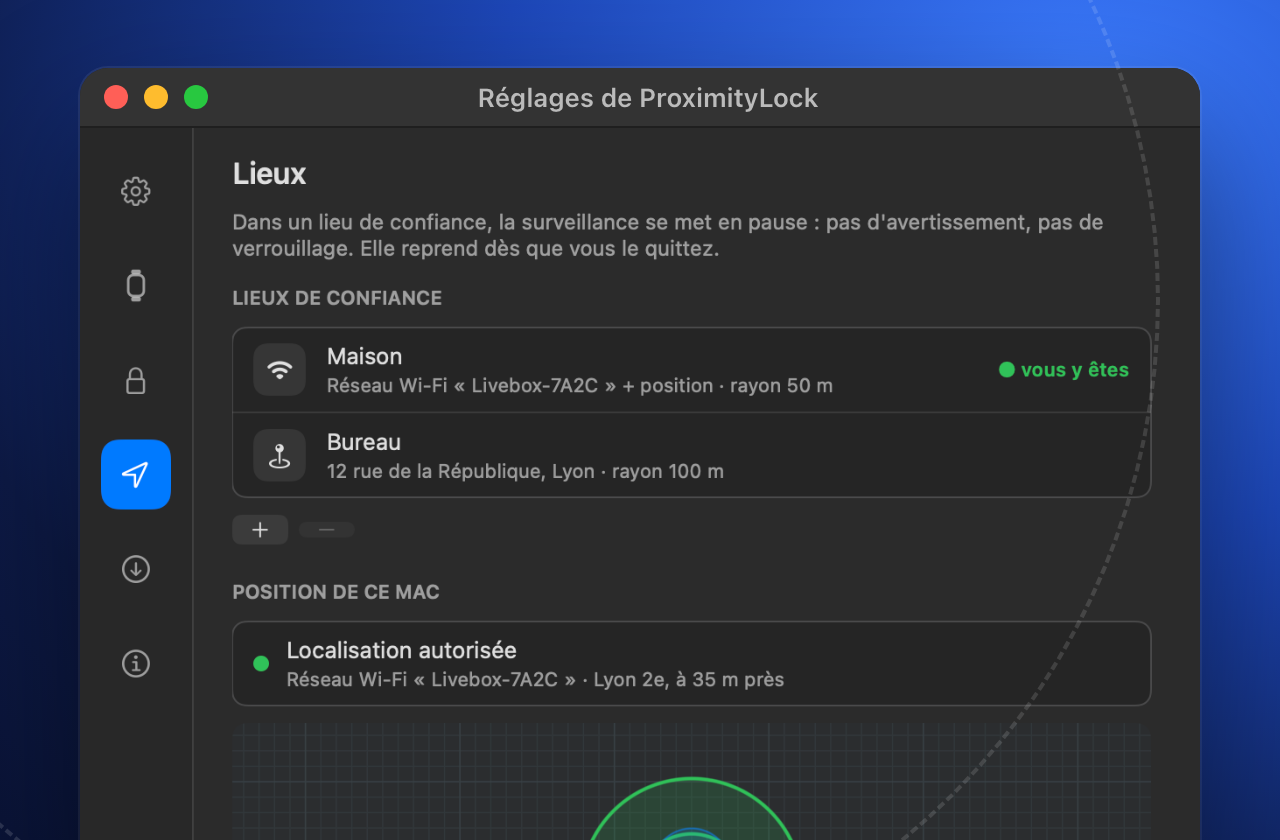
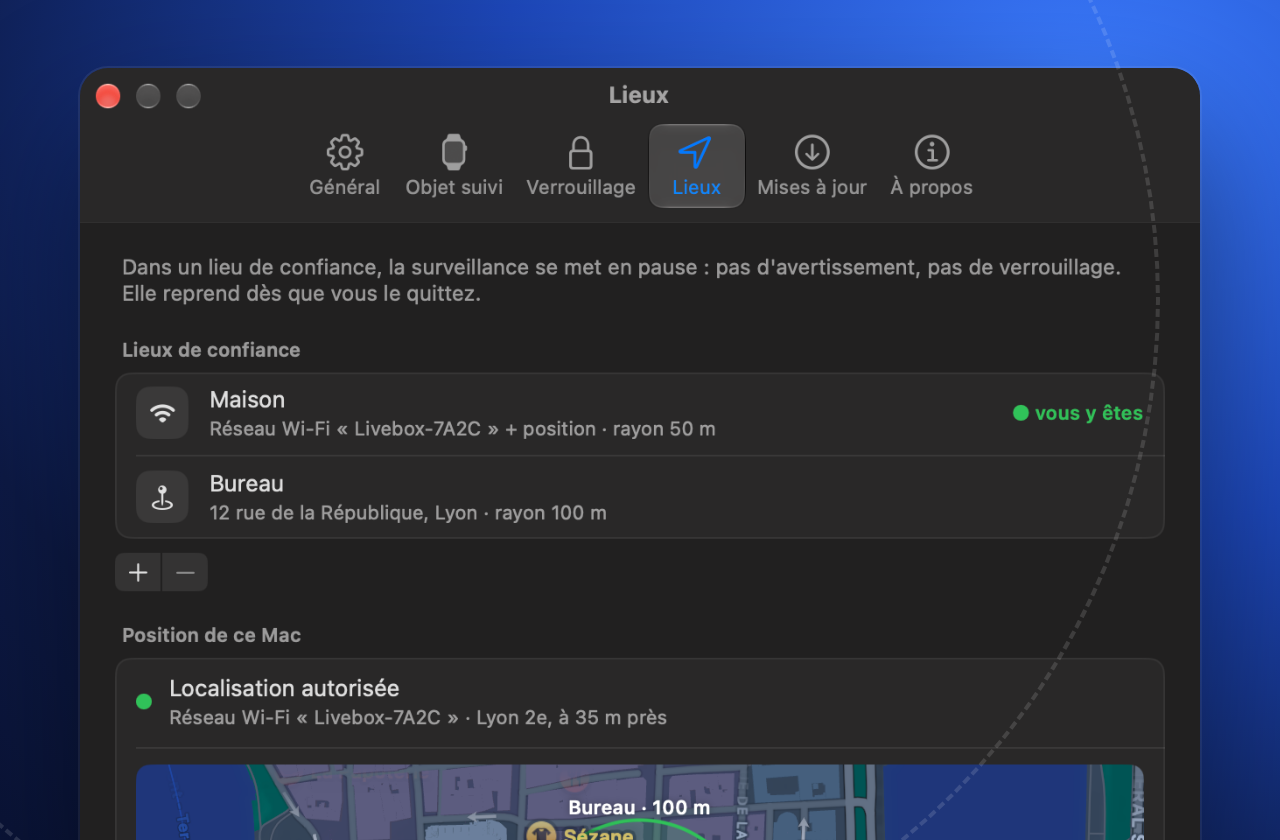
Page de présentation : nouveaux réglages (barre d'outils, lignes groupées, thème)

diff --git a/README.md b/README.md
@@ -19,7 +19,7 @@ pas de serveur : tout se passe sur votre Mac.
 
 <table>
 <tr>
-<td width="50%"><img src="images/atout-verrouillage.png" alt="Réglages du verrouillage"><br><b>Réglé à votre bureau</b><br>Trois zones — arrivée, limite de portée, verrouillage — que vous placez d'un glissement. Après une semaine, ProximityLock vous suggère les seuils qui collent à vos habitudes.</td>
+<td width="50%"><img src="images/atout-verrouillage.png" alt="Réglages du verrouillage"><br><b>Réglé à votre bureau</b><br>Trois zones — arrivée, limite de portée, hors de portée — que vous placez d'un glissement. Après une semaine, ProximityLock vous suggère les seuils qui collent à vos habitudes.</td>
 <td width="50%"><img src="images/atout-lieux.png" alt="Lieux de confiance"><br><b>Lieux de confiance</b><br>À la maison, la surveillance se met en pause toute seule : le lieu est reconnu à votre réseau Wi-Fi, à votre adresse, ou aux deux.</td>
 </tr>
 <tr>
@@ -27,6 +27,8 @@ pas de serveur : tout se passe sur votre Mac.
 <td width="50%"><img src="images/atout-android.png" alt="Jumelage d'un téléphone Android"><br><b>Aussi avec un téléphone Android</b><br>Le compagnon Android émet un code qui change toutes les 30 secondes : impossible de l'imiter en le copiant. Le jumelage se fait en scannant un QR code.</td>
 </tr>
 </table>
+
+Et aussi : le graphe du signal des deux dernières minutes (Réglages → Verrouillage, et dans le panneau si vous le souhaitez), et un thème clair, sombre ou celui du système.
 
 ## Installer
 
